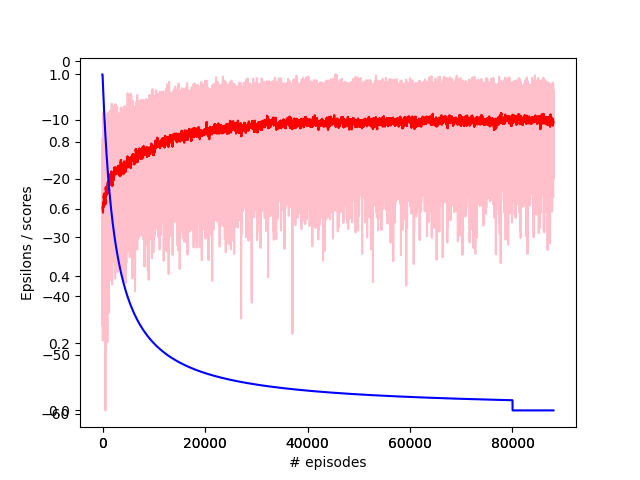
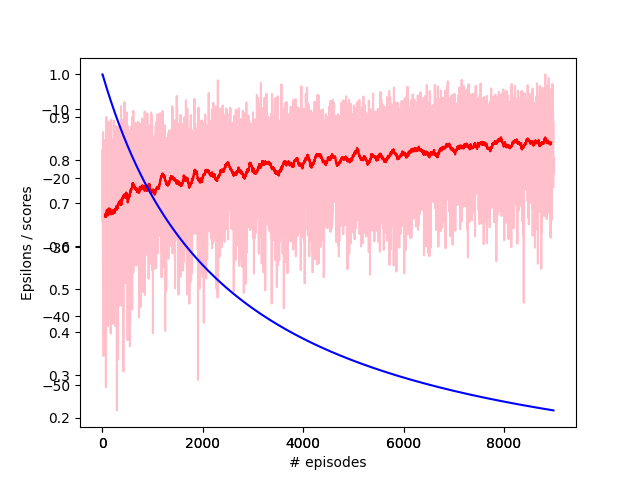
RLlibpractie with simple spread added

diff --git a/Source/RLlibPractice/RLlibpractice.py b/Source/RLlibPractice/RLlibpractice.py
@@ -18,6 +18,7 @@ from ray.rllib.utils.torch_utils import FLOAT_MAX
 from ray.tune.registry import register_env
 
 from pettingzoo.classic import leduc_holdem_v4
+from pettingzoo.mpe import simple_spread_v3
 
 torch, nn = try_import_torch()
 
@@ -76,20 +77,20 @@ if __name__ == "__main__":
     # function that outputs the environment you wish to register.
 
     def env_creator():
-        env = leduc_holdem_v4.env()
+        env = simple_spread_v3.env()
         return env
 
-    env_name = "leduc_holdem_v4"
+    env_name = "simple_spread_v3"
     register_env(env_name, lambda config: PettingZooEnv(env_creator()))
 
     test_env = PettingZooEnv(env_creator())
-    obs_space = test_env.observation_space['player_0']
-    act_space = test_env.action_space['player_0']
+    obs_space = test_env.observation_space['agent_0']
+    act_space = test_env.action_space['agent_0']
 
     config = (
         DQNConfig()
         .environment(env=env_name)
-        .rollouts(num_rollout_workers=8, rollout_fragment_length=30)
+        .rollouts(num_rollout_workers=87, rollout_fragment_length=30)
         .training(
             train_batch_size=200,
             hiddens=[],
@@ -123,7 +124,7 @@ if __name__ == "__main__":
     tune.run(
         alg_name,
         name="DQN",
-        stop={"timesteps_total": 10000},
+        stop={"timesteps_total": 100000},
         checkpoint_freq=10,
         config=config.to_dict(),
     )
